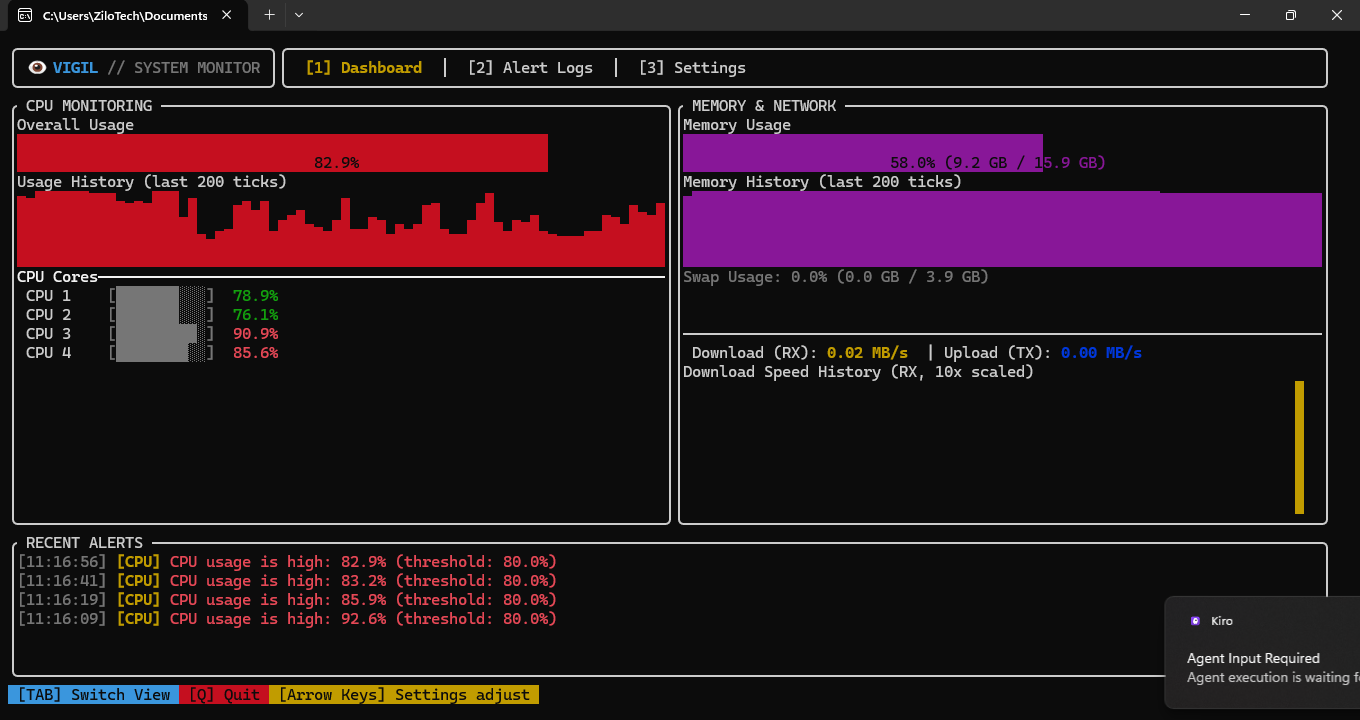
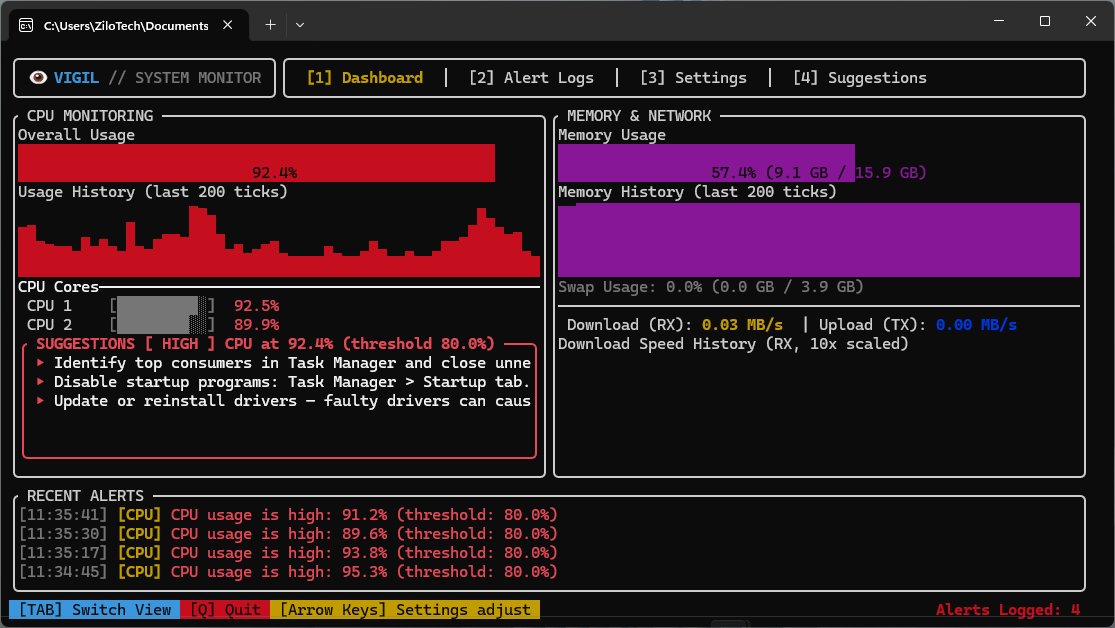
fixed suggestion tab issue

diff --git a/src/ui.rs b/src/ui.rs
@@ -418,6 +418,83 @@ fn draw_settings(f: &mut Frame, app: &App, area: Rect) {
     f.render_widget(help_paragraph, chunks[1]);
 }
 
+fn draw_suggestions(f: &mut Frame, area: Rect) {
+    let block = Block::default()
+        .title(" PERFORMANCE SUGGESTIONS ")
+        .borders(Borders::ALL)
+        .border_type(BorderType::Rounded)
+        .border_style(Style::default().fg(Color::Cyan));
+    let inner_area = block.inner(area);
+    f.render_widget(block, area);
+
+    let categories = App::get_all_suggestions();
+
+    // Split inner area into a header line + one row per two categories side by side
+    let header_chunks = Layout::default()
+        .direction(Direction::Vertical)
+        .constraints([
+            Constraint::Length(2), // intro line
+            Constraint::Min(4),    // category grid
+        ])
+        .split(inner_area);
+
+    let intro = Paragraph::new(Line::from(vec![
+        Span::styled(
+            " Tips to keep your system running smoothly. Press [4] or Tab to reach this page at any time.",
+            Style::default().fg(Color::DarkGray),
+        ),
+    ]));
+    f.render_widget(intro, header_chunks[0]);
+
+    // Lay out categories in a 2-column grid (row 0: CPU + Memory, row 1: Network + General)
+    let row_chunks = Layout::default()
+        .direction(Direction::Vertical)
+        .constraints([Constraint::Percentage(50), Constraint::Percentage(50)])
+        .split(header_chunks[1]);
+
+    for (row_idx, row_area) in row_chunks.iter().enumerate() {
+        let col_chunks = Layout::default()
+            .direction(Direction::Horizontal)
+            .constraints([Constraint::Percentage(50), Constraint::Percentage(50)])
+            .split(*row_area);
+
+        for col_idx in 0..2 {
+            let cat_idx = row_idx * 2 + col_idx;
+            if cat_idx >= categories.len() {
+                break;
+            }
+            let cat = &categories[cat_idx];
+
+            let color = match cat.color_hint {
+                SuggestionColor::Cyan    => Color::Cyan,
+                SuggestionColor::Magenta => Color::Magenta,
+                SuggestionColor::Yellow  => Color::Yellow,
+                SuggestionColor::Green   => Color::Green,
+            };
+
+            let cat_block = Block::default()
+                .title(format!(" {} ", cat.title))
+                .title_style(Style::default().fg(color).add_modifier(Modifier::BOLD))
+                .borders(Borders::ALL)
+                .border_type(BorderType::Rounded)
+                .border_style(Style::default().fg(color));
+            let cat_inner = cat_block.inner(col_chunks[col_idx]);
+            f.render_widget(cat_block, col_chunks[col_idx]);
+
+            let tip_lines: Vec<Line> = cat.tips.iter().map(|tip| {
+                Line::from(vec![
+                    Span::styled(" > ", Style::default().fg(color)),
+                    Span::styled(*tip, Style::default().fg(Color::White)),
+                ])
+            }).collect();
+
+            let tip_paragraph = Paragraph::new(tip_lines)
+                .wrap(ratatui::widgets::Wrap { trim: false });
+            f.render_widget(tip_paragraph, cat_inner);
+        }
+    }
+}
+
 fn draw_status_bar(f: &mut Frame, app: &App, area: Rect) {
     let chunks = Layout::default()
         .direction(Direction::Horizontal)